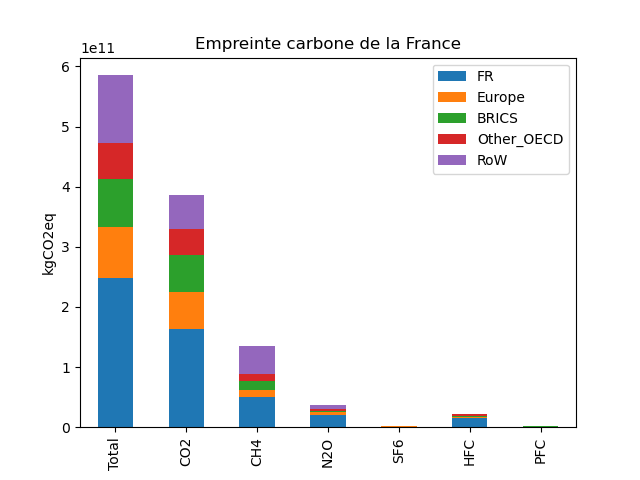
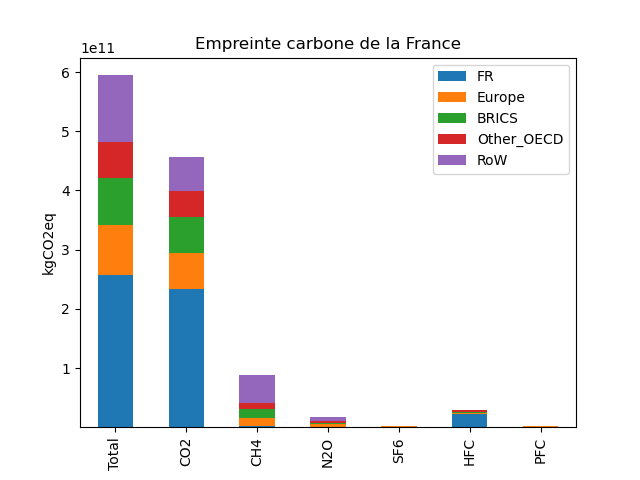
Correction calcul empreinte carbone - cf visio

diff --git a/main.py b/main.py
@@ -170,18 +170,23 @@ counterfactual.save_all(
 
 # concat results for visualisation
 ## ToDo
-#print(reference.ghg_emissions_desag.D_cba.sum(axis=0).FR) #empreinte carbone totale (peut faire si gaz en kgCO2eq)
 ghg_list = ['CO2', 'CH4', 'N2O', 'SF6', 'HFC', 'PFC']
 sectors_list=list(reference.get_sectors())
 reg_list = list(reference.get_regions())
 
 ref_dcba = pd.DataFrame(reference.ghg_emissions_desag.D_cba)
 ref_dpba=pd.DataFrame(reference.ghg_emissions_desag.D_pba)
-ges_direc_fr = ref_dpba['FR']
+
+#émissions directes liées à la production en France
+ges_direct_fr = pd.concat([ref_dpba['FR']], keys=['FR'], names=['region'])
+#émissions importées pour de la consommation en France
+ges_imp_fr = reference.ghg_emissions_desag.D_imp['FR'].iloc[reference.ghg_emissions_desag.D_imp['FR'].index.get_level_values(0)!='FR']
+#concatenation
+empreinte_df = ges_direct_fr.append(ges_imp_fr)
+print(empreinte_df)
 
 
-Total_ghg_desag_fr = ref_dcba['FR']
-sumonsectors = Total_ghg_desag_fr.sum(axis=1)
+sumonsectors = empreinte_df.sum(axis=1)
 total_ges_by_origin = sumonsectors.sum(level=0)
 liste_agg_ghg=[]
 for ghg in ghg_list:
@@ -195,19 +200,19 @@ pour_plot.transpose().plot.bar(stacked=True)
 plt.title("Empreinte carbone de la France")
 plt.ylabel("kgCO2eq")
 plt.savefig("figures/empreinte_carbone_fr_importation.png")
-#plt.show()
+plt.show()
 
-#Other version :
+
 for ghg in ghg_list:
     df = pd.DataFrame(None, index = reference.get_sectors(), columns = reference.get_regions())
     for reg in reference.get_regions():
-        df.loc[:,reg]=ref_dcba.transpose().loc['FR',(reg,ghg)]
+        df.loc[:,reg]=empreinte_df.loc[(reg,ghg)]
     ax=df.plot.barh(stacked=True)
     plt.grid()
     plt.xlabel("kgCO2eq")
     plt.title("Provenance des émissions de "+ghg+" françaises par secteurs")
     plt.savefig('figures/french_'+ghg+'emissions_provenance_sectors')
-    #plt.show()
+plt.show()
 
 
 ###########################
